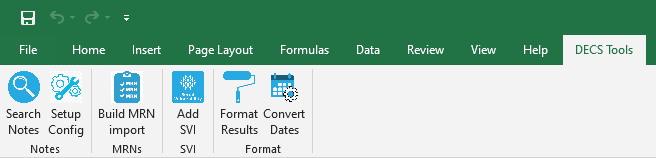
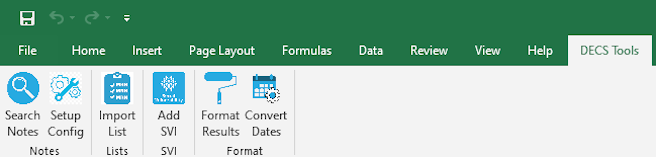
Tweak labels, documentation

diff --git a/DECS Excel Add-Ins/DecsExcelRibbon.cs b/DECS Excel Add-Ins/DecsExcelRibbon.cs
@@ -40,7 +40,7 @@ namespace DECS_Excel_Add_Ins
 
         public DecsExcelRibbon() { }
 
-        public Bitmap buildMrnsButton_GetImage(IRibbonControl control)
+        public Bitmap buildListButton_GetImage(IRibbonControl control)
         {
             return Resources.clipboard;
         }
@@ -72,7 +72,7 @@ namespace DECS_Excel_Add_Ins
             sviProcessor.Scan(wksheet);
         }
 
-        public void OnBuildMRN(Office.IRibbonControl control)
+        public void OnBuildList(Office.IRibbonControl control)
         {
             ListImporter importer = new ListImporter();
             Excel.Worksheet wksheet = (Excel.Worksheet)Globals.ThisAddIn.Application.ActiveSheet;

diff --git a/README.md b/README.md
@@ -6,7 +6,7 @@ Creates custom buttons in Microsoft Excel & Word that allow user to:
 ![image info](./DECS%20Excel%20Add-Ins/pictures/toolbar.png) 
 
 * Scan `Notes` fields for keywords, creating new columns.
-* Turn a column of MRNs into a SQL snippet that imports the column into a query.
+* Turn a list (of MRNs, ICD codes, etc.) into a SQL snippet that imports the column into a query.
 * Lookup Social Vulnerability Index ([SVI](https://www.atsdr.cdc.gov/placeandhealth/svi/index.html)) from address.
 * Format a page of results with bold & centered header, NULLs grayed out, etc.
 * Convert dates from [MUMPS](https://en.wikipedia.org/wiki/MUMPS) to Excel standard.
